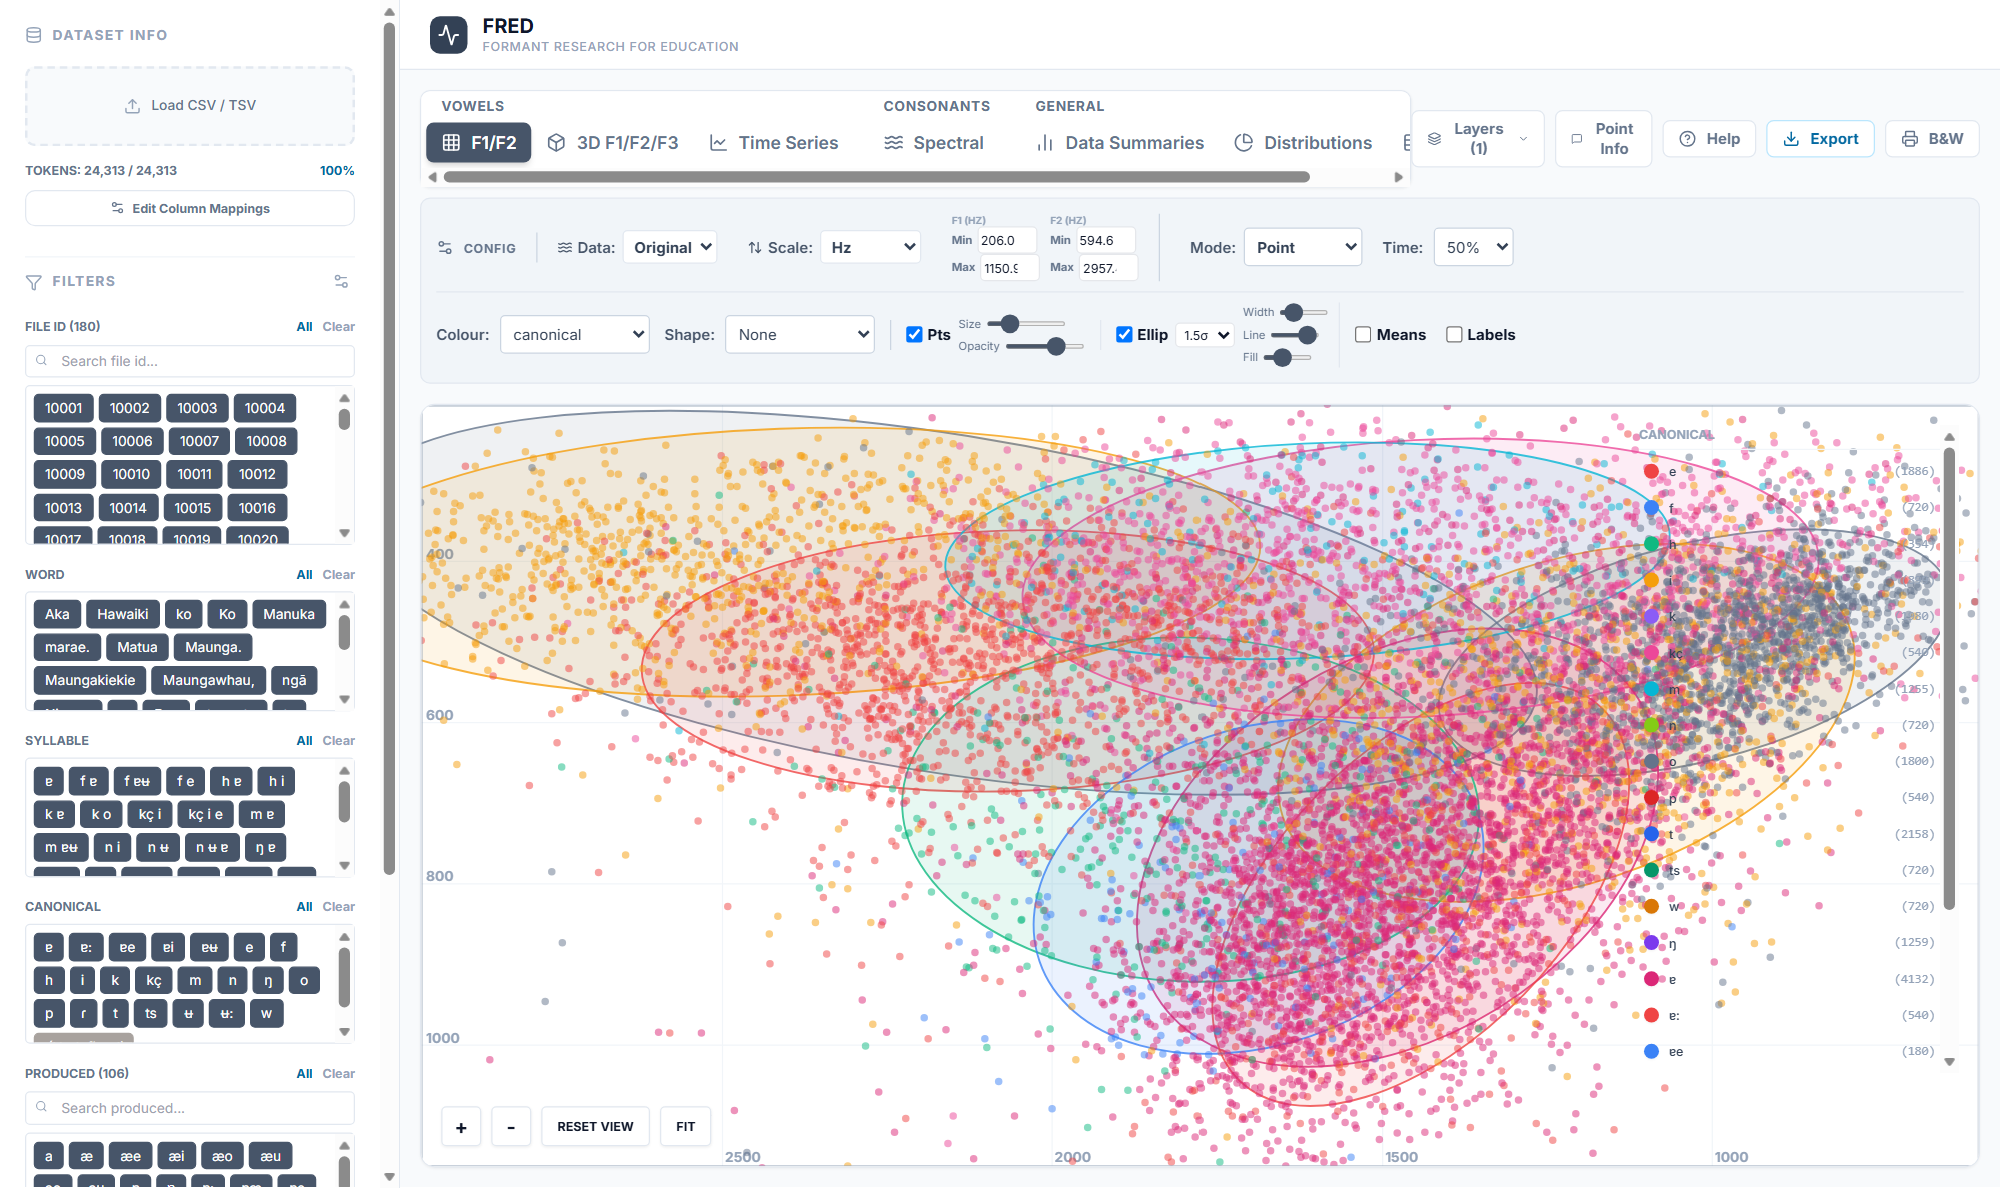
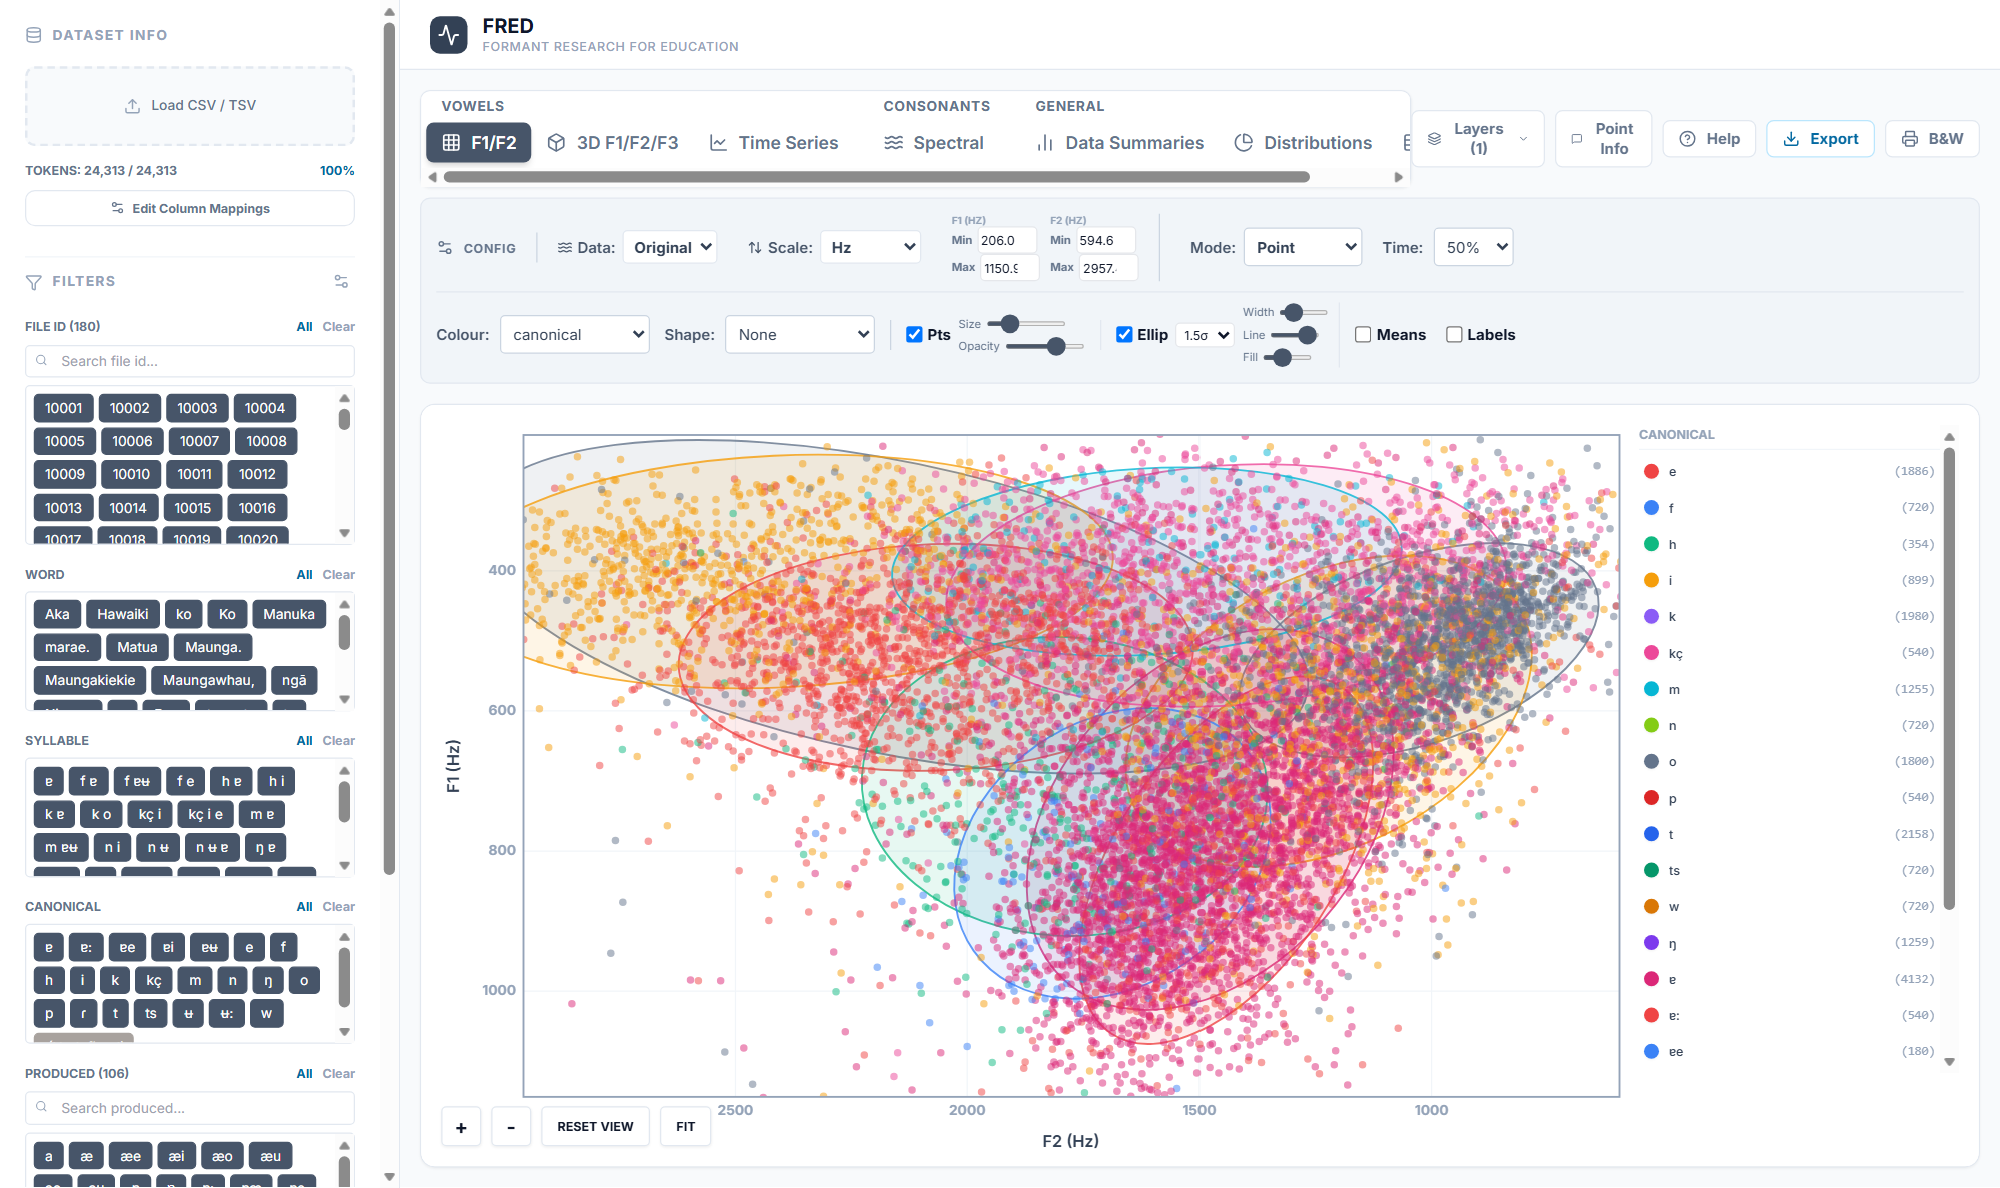
feat: align the F1/F2 plot frame with the Spectral tab
The live F1/F2 view now draws the same grey frame as the Spectral
plot: the data area is inset, axis titles (F2/F1 with the current
scale unit) sit below and beside the frame, tick labels move outside
it, and the on-screen legend gets a reserved gutter so it never
overlaps the frame or the data. Layer drawing is clipped to the frame
so tokens outside the axis ranges no longer spill into the margins.

The hover spatial grid mirrors the new mapping, and export rendering
is unchanged - it lays out its own margins, labels and legend.
Screenshots regenerated.

Changed region(s): [[0.186, 0.3426, 0.992, 0.9966], [0.248, 0.8098, 0.279, 0.8409], [0.217, 0.6229, 0.248, 0.654]]

diff --git a/components/CanvasPlot.tsx b/components/CanvasPlot.tsx
@@ -341,6 +341,25 @@ const CanvasPlot = forwardRef<PlotHandle, CanvasPlotProps>(({ layers, layerData,
     return result;
   }, [layers, layerData]);
 
+  // Whether the on-screen legend has anything to show (mirrors Legend's own logic:
+  // trajectory layers ignore shapeKey). Drives the right-hand gutter reservation.
+  const hasLegend = useMemo(() => layers.some(l => {
+    if (!l.visible) return false;
+    const m = allMappings[l.id];
+    if (!m) return false;
+    return !!(m.colorKey || m.lineTypeKey || (l.config.plotType !== 'trajectory' && m.shapeKey));
+  }), [layers, allMappings]);
+
+  /**
+   * Data area of the live canvas, matching the Spectral tab: room on the left/bottom for
+   * ticks and axis titles, and a right-hand gutter so the frame sits entirely to the
+   * left of the on-screen legend. Export keeps the full area — it lays out its own
+   * margins, labels and legend around the plot.
+   */
+  const plotArea = (width: number, height: number, exporting: boolean) => exporting
+    ? { x: 0, y: 0, w: width, h: height }
+    : { x: 82, y: 24, w: width - 82 - (hasLegend ? 288 : 24), h: height - 24 - 56 };
+
   // Spatial grid index for O(1) hover hit-testing (rebuilt when data/config changes)
   const spatialGrid = useMemo(() => {
     const canvas = canvasRef.current;
@@ -359,13 +378,15 @@ const CanvasPlot = forwardRef<PlotHandle, CanvasPlotProps>(({ layers, layerData,
     const rows = Math.ceil(gridH / CELL_SIZE);
     const grid: { token: SpeechToken; layerId: string; x: number; y: number }[][] = new Array(cols * rows);
 
+    // Must mirror renderPlot's live mapping exactly, or hover misses the markers.
+    const area = plotArea(width, height, false);
     const mapX = (f2: number) => {
       const norm = (f2 - bgConfig.f2Range[0]) / (bgConfig.f2Range[1] - bgConfig.f2Range[0]);
-      return bgConfig.invertX ? (1 - norm) * width : norm * width;
+      return area.x + (bgConfig.invertX ? (1 - norm) : norm) * area.w;
     };
     const mapY = (f1: number) => {
       const norm = (f1 - bgConfig.f1Range[0]) / (bgConfig.f1Range[1] - bgConfig.f1Range[0]);
-      return bgConfig.invertY ? norm * height : (1 - norm) * height;
+      return area.y + (bgConfig.invertY ? norm : (1 - norm)) * area.h;
     };
 
     const addToGrid = (px: number, py: number, token: SpeechToken, layerId: string) => {
@@ -405,7 +426,7 @@ const CanvasPlot = forwardRef<PlotHandle, CanvasPlotProps>(({ layers, layerData,
     });
 
     return { grid, cols, rows, cellSize: CELL_SIZE, originX, originY };
-  }, [layers, layerData, bgConfig.f1Range, bgConfig.f2Range, bgConfig.invertX, bgConfig.invertY, normMethod, speakerStats]);
+  }, [layers, layerData, bgConfig.f1Range, bgConfig.f2Range, bgConfig.invertX, bgConfig.invertY, normMethod, speakerStats, hasLegend]);
 
   // Helper functions for drawing individual layers
   const drawTrajectoryLayer = (
@@ -757,14 +778,18 @@ const CanvasPlot = forwardRef<PlotHandle, CanvasPlotProps>(({ layers, layerData,
     ctx.translate(translate.x, translate.y);
     ctx.scale(scale, scale);
 
-    // Grid/axes always use background (layers[0]) config for coordinate space
+    // Grid/axes always use background (layers[0]) config for coordinate space.
+    // The live view maps into an inset area (spectral-style frame with outside ticks
+    // and axis titles); export maps the full plot and adds its own labels around it.
+    const isExport = !!exportConfig;
+    const area = plotArea(width, height, isExport);
     const mapX = (f2: number) => {
       const norm = (f2 - bgConfig.f2Range[0]) / (bgConfig.f2Range[1] - bgConfig.f2Range[0]);
-      return bgConfig.invertX ? (1 - norm) * width : norm * width;
+      return area.x + (bgConfig.invertX ? (1 - norm) : norm) * area.w;
     };
     const mapY = (f1: number) => {
       const norm = (f1 - bgConfig.f1Range[0]) / (bgConfig.f1Range[1] - bgConfig.f1Range[0]);
-      return bgConfig.invertY ? norm * height : (1 - norm) * height;
+      return area.y + (bgConfig.invertY ? norm : (1 - norm)) * area.h;
     };
 
     // Grid
@@ -772,10 +797,7 @@ const CanvasPlot = forwardRef<PlotHandle, CanvasPlotProps>(({ layers, layerData,
     ctx.lineWidth = (1 * drawScale) / scale;
     ctx.fillStyle = '#94a3b8';
 
-    const isExport = !!exportConfig;
-    const tickBaseSize = exportConfig ? exportConfig.tickLabelSize : (isExport ? 28 : 11);
-    const tickFontSize = (tickBaseSize * drawScale) / scale;
-
+    const tickFontSize = ((exportConfig ? exportConfig.tickLabelSize : 11) * drawScale) / scale;
     ctx.font = `bold ${tickFontSize}px Inter`;
 
     const f2Span = bgConfig.f2Range[1] - bgConfig.f2Range[0];
@@ -786,29 +808,58 @@ const CanvasPlot = forwardRef<PlotHandle, CanvasPlotProps>(({ layers, layerData,
     const f1Step = getTickStep(normMethod, f1Span);
     const startF1 = Math.ceil(bgConfig.f1Range[0] / f1Step) * f1Step;
 
-    const tickOffset = isExport ? (10 * drawScale) : (4 * drawScale);
+    const tickOffset = isExport ? (10 * drawScale) : (6 * drawScale) / scale;
     const cornerThreshold = 30 * drawScale / scale;
 
     for (let f2 = startF2; f2 <= bgConfig.f2Range[1]; f2 += f2Step) {
       const x = mapX(f2);
-      ctx.beginPath(); ctx.moveTo(x, 0); ctx.lineTo(x, height); ctx.stroke();
-      if (x > cornerThreshold) {
-          const xOffset = exportConfig ? (exportConfig.xAxisTickX || 0) * drawScale : 0;
-          const yOffset = exportConfig ? (exportConfig.xAxisTickY || 0) * drawScale : 0;
-          ctx.fillText(formatTick(f2, normMethod), x + (2*drawScale) + xOffset, height - tickOffset + yOffset);
+      ctx.beginPath(); ctx.moveTo(x, area.y); ctx.lineTo(x, area.y + area.h); ctx.stroke();
+      if (isExport) {
+        if (x > cornerThreshold) {
+          const xOffset = (exportConfig!.xAxisTickX || 0) * drawScale;
+          const yOffset = (exportConfig!.xAxisTickY || 0) * drawScale;
+          ctx.fillText(formatTick(f2, normMethod), x + (2*drawScale) + xOffset, height - (10*drawScale) + yOffset);
+        }
+      } else {
+        ctx.textAlign = 'center'; ctx.textBaseline = 'top';
+        ctx.fillText(formatTick(f2, normMethod), x, area.y + area.h + tickOffset);
+        ctx.textAlign = 'start'; ctx.textBaseline = 'alphabetic';
       }
     }
     for (let f1 = startF1; f1 <= bgConfig.f1Range[1]; f1 += f1Step) {
       const y = mapY(f1);
-      ctx.beginPath(); ctx.moveTo(0, y); ctx.lineTo(width, y); ctx.stroke();
-      if (y < height - cornerThreshold) {
-          const xOffset = exportConfig ? (exportConfig.yAxisTickX || 0) * drawScale : 0;
-          const yOffset = exportConfig ? (exportConfig.yAxisTickY || 0) * drawScale : 0;
-          ctx.fillText(formatTick(f1, normMethod), tickOffset + xOffset, y - (2*drawScale) + yOffset);
+      ctx.beginPath(); ctx.moveTo(area.x, y); ctx.lineTo(area.x + area.w, y); ctx.stroke();
+      if (isExport) {
+        if (y < height - cornerThreshold) {
+          const xOffset = (exportConfig!.yAxisTickX || 0) * drawScale;
+          const yOffset = (exportConfig!.yAxisTickY || 0) * drawScale;
+          ctx.fillText(formatTick(f1, normMethod), (10*drawScale) + xOffset, y - (2*drawScale) + yOffset);
+        }
+      } else {
+        ctx.textAlign = 'right'; ctx.textBaseline = 'middle';
+        ctx.fillText(formatTick(f1, normMethod), area.x - tickOffset, y);
+        ctx.textAlign = 'start'; ctx.textBaseline = 'alphabetic';
       }
     }
 
-    // Draw each visible layer in order
+    // Axis titles (live view only — export draws its own, sized from ExportConfig)
+    if (!isExport) {
+      ctx.fillStyle = '#334155';
+      ctx.font = `600 ${(13 * drawScale) / scale}px Inter, sans-serif`;
+      ctx.textAlign = 'center'; ctx.textBaseline = 'alphabetic';
+      ctx.fillText(getAxisLabel('F2', normMethod), area.x + area.w / 2, area.y + area.h + (40 * drawScale) / scale);
+      ctx.save();
+      ctx.translate(area.x - (52 * drawScale) / scale, area.y + area.h / 2);
+      ctx.rotate(-Math.PI / 2);
+      ctx.fillText(getAxisLabel('F1', normMethod), 0, 0);
+      ctx.restore();
+      ctx.textAlign = 'start';
+    }
+
+    // Draw each visible layer in order. The live view clips to the frame so tokens
+    // outside the axis ranges do not spill into the margins; export keeps the full
+    // area (its margins are laid out around the plot, so nothing can spill).
+    if (!isExport) { ctx.save(); ctx.beginPath(); ctx.rect(area.x, area.y, area.w, area.h); ctx.clip(); }
     layers.forEach(layer => {
       if (!layer.visible) return;
       const data = layerData[layer.id] || [];
@@ -823,17 +874,23 @@ const CanvasPlot = forwardRef<PlotHandle, CanvasPlotProps>(({ layers, layerData,
         drawPointLayer(ctx, data, layer.config, mappings, groups, mapX, mapY, scale, drawScale, exportConfig);
       }
     });
+    if (!isExport) ctx.restore();
 
-    // Plot border, matching the Spectral tab. Drawn last so data never sits on top of it,
-    // and inset by half its width so neither edge is clipped by the canvas bounds.
+    // Plot border, matching the Spectral tab. Drawn last so data never sits on top of it.
+    // Live view frames the inset data area (legend and titles sit outside it); export
+    // frames the full plot, inset by half the stroke so the edges are not clipped.
     const borderW = (1.5 * drawScale) / scale;
     ctx.strokeStyle = '#94a3b8';
     ctx.lineWidth = borderW;
     ctx.setLineDash([]);
-    ctx.strokeRect(borderW / 2, borderW / 2, width - borderW, height - borderW);
+    if (isExport) {
+      ctx.strokeRect(borderW / 2, borderW / 2, width - borderW, height - borderW);
+    } else {
+      ctx.strokeRect(area.x, area.y, area.w, area.h);
+    }
 
     ctx.restore();
-  }, [layers, layerData, allMappings, bgConfig, normMethod, speakerStats]);
+  }, [layers, layerData, allMappings, bgConfig, normMethod, speakerStats, hasLegend]);
 
   const drawLegend = (ctx: CanvasRenderingContext2D, x: number, y: number, width: number, drawScale: number = 1, exportConfig?: ExportConfig) => {
       let curY = y;
